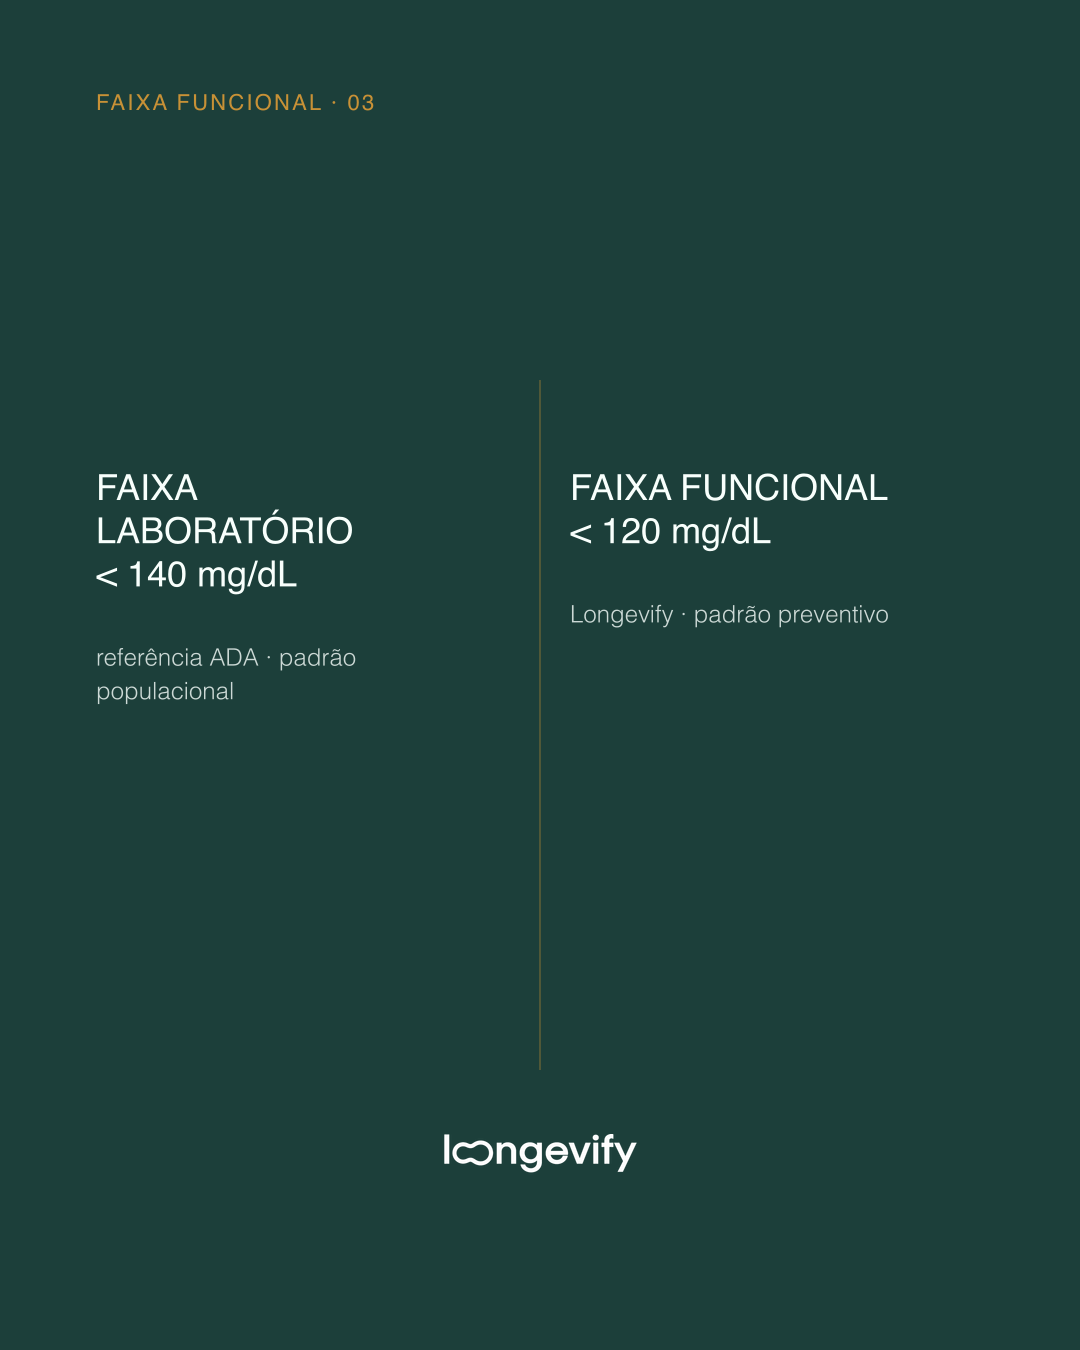
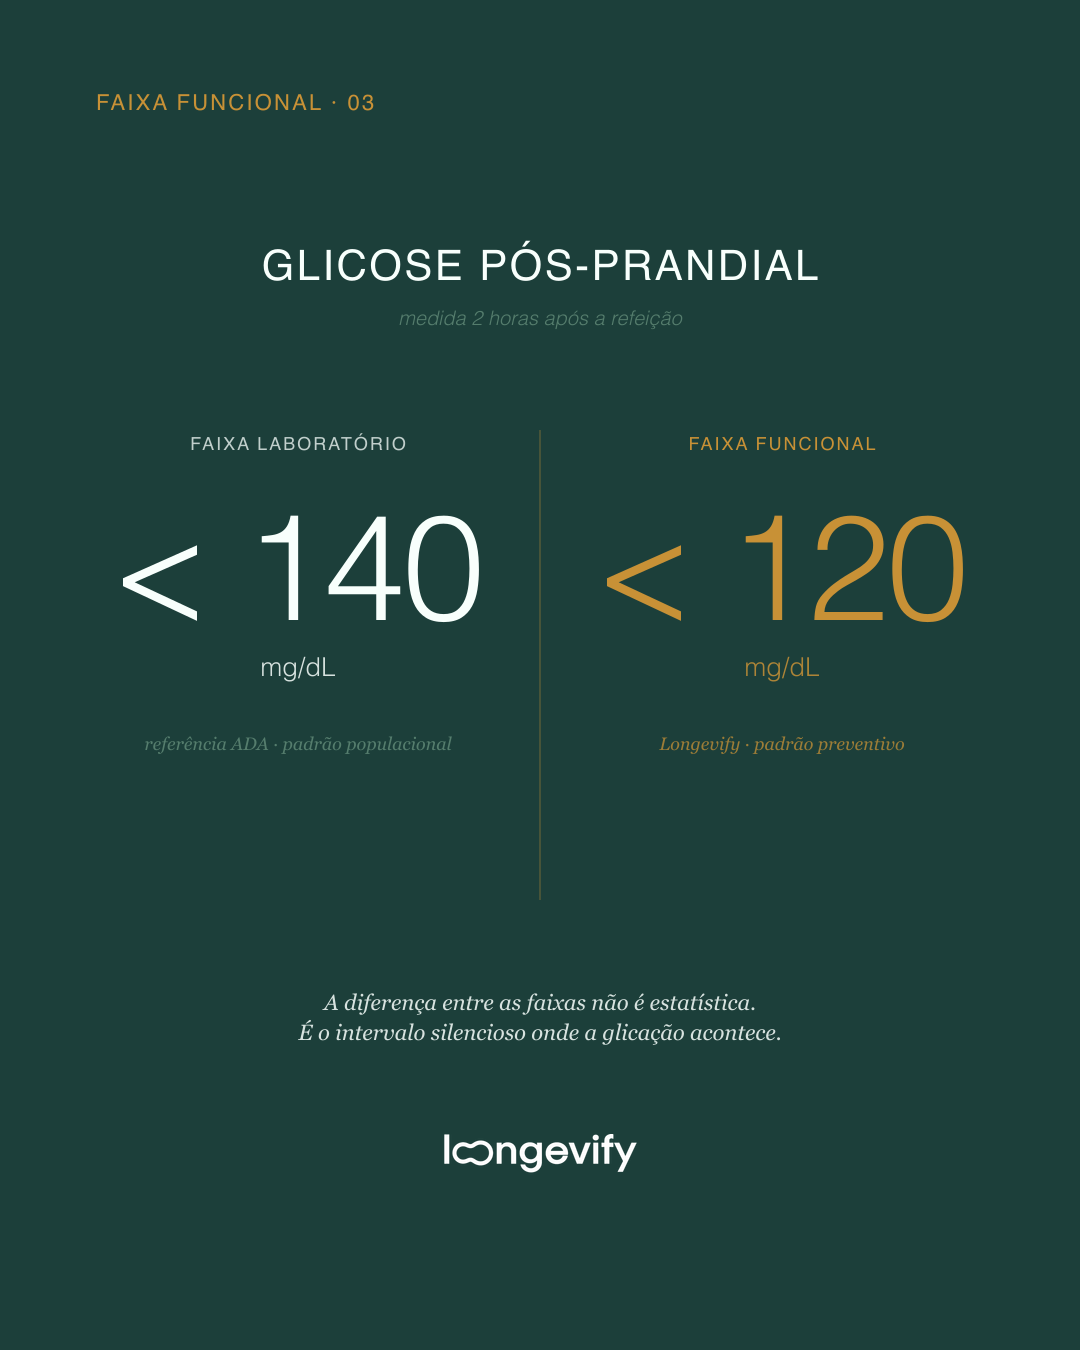
Layout 'faixa-funcional' dedicado: número-âncora gigante gold
Glicose pós-prandial single image:
- Biomarcador centro em uppercase + sub italic
- 2 colunas com divider gold vertical
- Esquerda (off-white, populacional): < 140 mg/dL gigante
- Direita (gold, funcional): < 120 mg/dL gigante destaque
- Footer 2 linhas Georgia italic editorial
- Logo bottom-center (linha decorativa cortada)

diff --git a/scripts/render-carousel-sharp.ts b/scripts/render-carousel-sharp.ts
@@ -47,8 +47,15 @@ interface Slide {
   headline: string;  // body text central
   emphasis?: string; // string a destacar em gold dentro do headline
   micro?: string;    // texto pequeno bottom (proof / source)
-  layout?: "default" | "hero" | "two-column";
+  layout?: "default" | "hero" | "two-column" | "faixa-funcional";
   twoCol?: { left: { heading: string; body: string }; right: { heading: string; body: string } };
+  faixa?: {
+    biomarker: string;          // "GLICOSE PÓS-PRANDIAL"
+    subBiomarker?: string;      // "medida 2 horas após a refeição"
+    left: { label: string; number: string; unit: string; sub: string };  // {label: "FAIXA LABORATÓRIO", number: "< 140", unit: "mg/dL", sub: "referência ADA"}
+    right: { label: string; number: string; unit: string; sub: string };
+    footerLines?: string[];     // 2 linhas Georgia italic editorial
+  };
 }
 
 interface CarouselSpec {
@@ -100,7 +107,47 @@ function buildSlideSvg(slide: Slide): string {
     fill="${PALETTE.gold}" letter-spacing="2.2">${escapeXml(numText.toUpperCase())}</text>`;
   }
 
-  if (slide.layout === "two-column" && slide.twoCol) {
+  if (slide.layout === "faixa-funcional" && slide.faixa) {
+    const f = slide.faixa;
+    const centerX = W / 2;
+
+    // BIOMARCADOR NAME (centro-topo)
+    body += `<text x="${centerX}" y="280" font-family="DM Sans" font-size="42" font-weight="500" fill="${PALETTE.text}" text-anchor="middle" letter-spacing="2.4">${escapeXml(f.biomarker.toUpperCase())}</text>`;
+    if (f.subBiomarker) {
+      body += `<text x="${centerX}" y="325" font-family="DM Sans" font-size="20" font-weight="300" fill="${PALETTE.sage}" text-anchor="middle" font-style="italic">${escapeXml(f.subBiomarker)}</text>`;
+    }
+
+    // Two cols: laboratório (left, off-white) vs funcional (right, gold)
+    const gap = 80;
+    const colW = (W - padX * 2 - gap) / 2;
+    const colLeftCenter = padX + colW / 2;
+    const colRightCenter = padX + colW + gap + colW / 2;
+    const dividerX = W / 2;
+    const numberY = 620;
+
+    // Divider
+    body += `<line x1="${dividerX}" y1="430" x2="${dividerX}" y2="900" stroke="${PALETTE.gold}" stroke-width="1" opacity="0.5"/>`;
+
+    // LEFT — laboratório (cream/off-white, mais discreto)
+    body += `<text x="${colLeftCenter}" y="450" font-family="DM Sans" font-size="18" font-weight="500" fill="${PALETTE.text}" text-anchor="middle" letter-spacing="2.0" opacity="0.75">${escapeXml(f.left.label.toUpperCase())}</text>`;
+    body += `<text x="${colLeftCenter}" y="${numberY}" font-family="DM Sans" font-size="148" font-weight="300" fill="${PALETTE.text}" text-anchor="middle" letter-spacing="-3">${escapeXml(f.left.number)}</text>`;
+    body += `<text x="${colLeftCenter}" y="${numberY + 56}" font-family="DM Sans" font-size="26" font-weight="300" fill="${PALETTE.text}" text-anchor="middle" opacity="0.85">${escapeXml(f.left.unit)}</text>`;
+    body += `<text x="${colLeftCenter}" y="${numberY + 130}" font-family="Georgia" font-size="18" font-style="italic" fill="${PALETTE.sage}" text-anchor="middle">${escapeXml(f.left.sub)}</text>`;
+
+    // RIGHT — funcional (gold, destaque)
+    body += `<text x="${colRightCenter}" y="450" font-family="DM Sans" font-size="18" font-weight="500" fill="${PALETTE.gold}" text-anchor="middle" letter-spacing="2.0">${escapeXml(f.right.label.toUpperCase())}</text>`;
+    body += `<text x="${colRightCenter}" y="${numberY}" font-family="DM Sans" font-size="148" font-weight="300" fill="${PALETTE.gold}" text-anchor="middle" letter-spacing="-3">${escapeXml(f.right.number)}</text>`;
+    body += `<text x="${colRightCenter}" y="${numberY + 56}" font-family="DM Sans" font-size="26" font-weight="300" fill="${PALETTE.gold}" text-anchor="middle" opacity="0.85">${escapeXml(f.right.unit)}</text>`;
+    body += `<text x="${colRightCenter}" y="${numberY + 130}" font-family="Georgia" font-size="18" font-style="italic" fill="${PALETTE.gold}" text-anchor="middle" opacity="0.75">${escapeXml(f.right.sub)}</text>`;
+
+    // Footer editorial 2 linhas
+    if (f.footerLines) {
+      const footY = 1010;
+      f.footerLines.forEach((ln, i) => {
+        body += `<text x="${centerX}" y="${footY + i * 30}" font-family="Georgia" font-size="22" font-style="italic" fill="${PALETTE.text}" text-anchor="middle" opacity="0.85">${escapeXml(ln)}</text>`;
+      });
+    }
+  } else if (slide.layout === "two-column" && slide.twoCol) {
     // Reserva mais espaço: colunas mais estreitas, font menor, headings com wrap manual
     const gap = 60;
     const colW = (W - padX * 2 - gap) / 2;
@@ -221,7 +268,20 @@ function parseRunSlides(runId: string): Slide[] {
       { n: 5, total: 5, kicker: "A PERGUNTA MUDOU", headline: "Não é parecer mais novo.\nÉ ter energia mais nova.", layout: "hero", micro: "link na bio" },
     ],
     "2026-05-22-001-faixa-funcional-glicose": [
-      { n: 1, total: 1, kicker: "FAIXA FUNCIONAL · 03", headline: "", layout: "two-column", twoCol: { left: { heading: "FAIXA LABORATÓRIO\n< 140 mg/dL", body: "referência ADA · padrão populacional" }, right: { heading: "FAIXA FUNCIONAL\n< 120 mg/dL", body: "Longevify · padrão preventivo" } } },
+      {
+        n: 1, total: 1, kicker: "FAIXA FUNCIONAL · 03", headline: "",
+        layout: "faixa-funcional",
+        faixa: {
+          biomarker: "Glicose pós-prandial",
+          subBiomarker: "medida 2 horas após a refeição",
+          left: { label: "Faixa laboratório", number: "< 140", unit: "mg/dL", sub: "referência ADA · padrão populacional" },
+          right: { label: "Faixa funcional", number: "< 120", unit: "mg/dL", sub: "Longevify · padrão preventivo" },
+          footerLines: [
+            "A diferença entre as faixas não é estatística.",
+            "É o intervalo silencioso onde a glicação acontece.",
+          ],
+        },
+      },
     ],
     "2026-05-24-001-overheard-apob-colesterol-bom": [
       { n: 1, total: 5, headline: '"Meu colesterol tá bom, doutor."', layout: "hero", micro: "— paciente, 42 anos, São Paulo" },